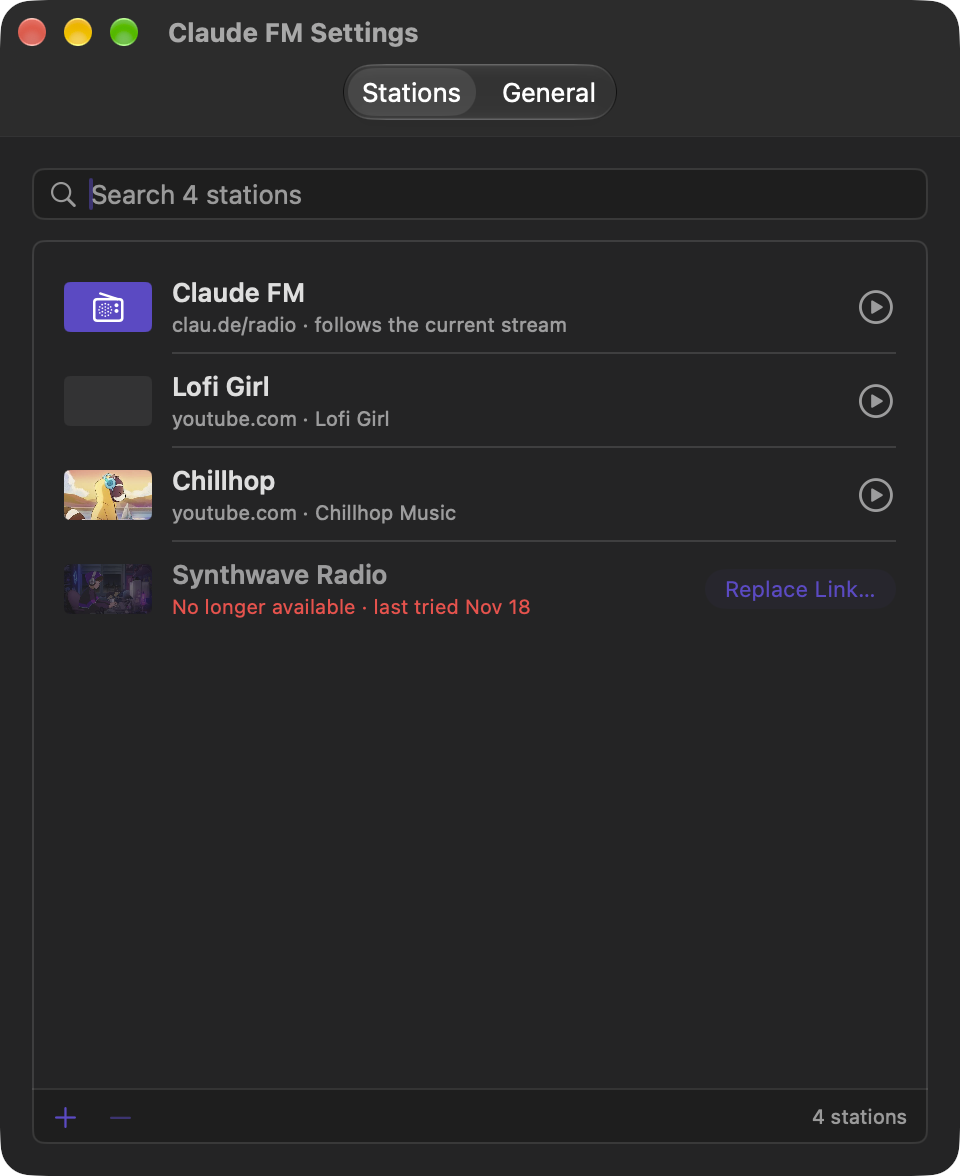
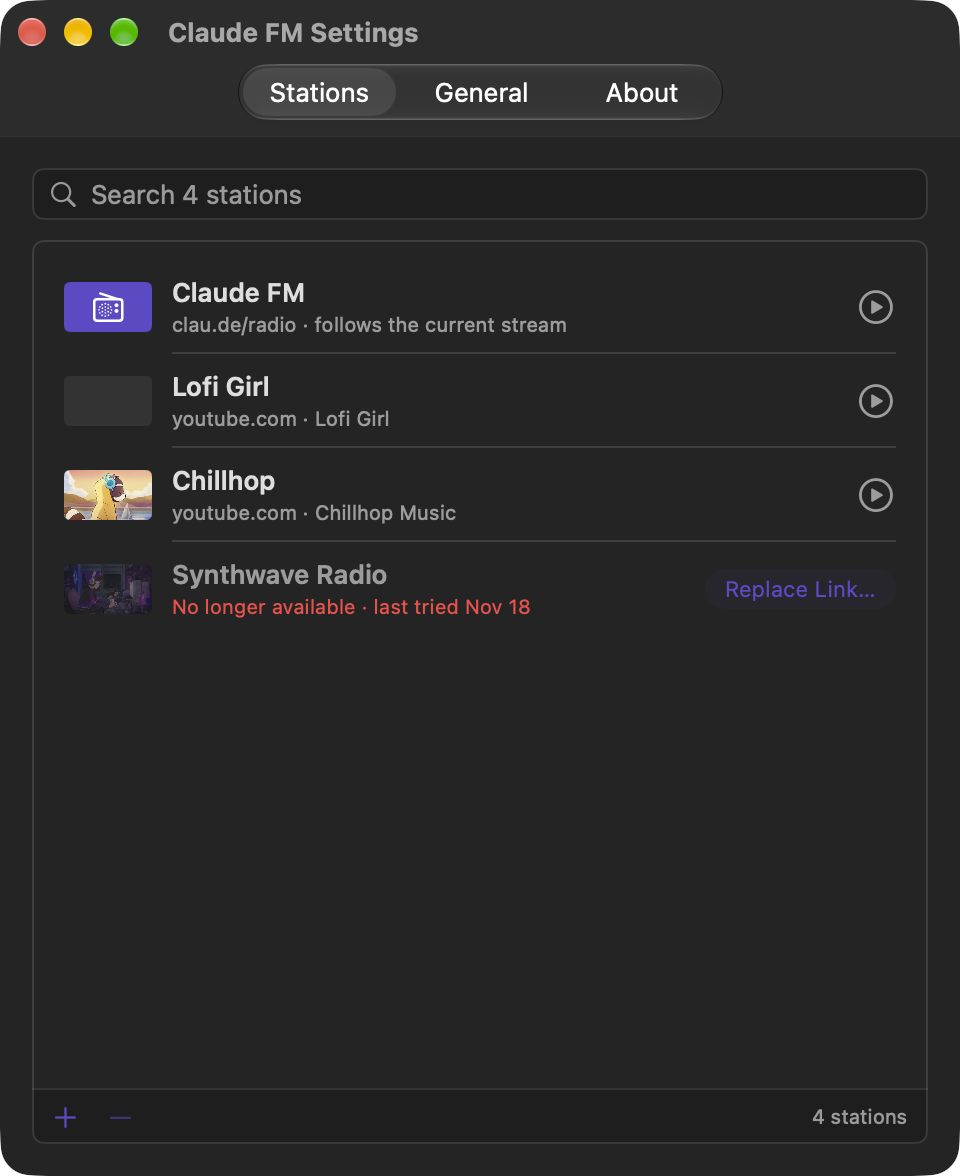
Add an About tab and give the settings tabs room
About shows the icon, the version, what the app is, a link to the
source, and the note that it is a personal project.

The tabs picker sizes each tab to its label and ignores padding on it,
so the labels carry spaces that give the text room on both sides.

Claude-Session: https://claude.ai/code/session_01Ev9xkhDvf3t77rjS2vGz66

Changed region(s): [[0.25, 0.0306, 0.7188, 0.1224]]

diff --git a/Sources/ClaudeFM/SettingsWindow.swift b/Sources/ClaudeFM/SettingsWindow.swift
@@ -9,6 +9,7 @@ final class SettingsNavigation {
     enum Tab: Hashable {
         case stations
         case general
+        case about
     }
 
     /// A request to show the Add Station sheet.
@@ -89,6 +90,7 @@ struct SettingsView: View {
             switch navigation.tab {
             case .stations: StationsTab(model: model, navigation: navigation)
             case .general: GeneralTab(model: model)
+            case .about: AboutTab()
             }
         }
         .frame(width: 480)
@@ -98,11 +100,13 @@ struct SettingsView: View {
         .toolbar {
             ToolbarItem(placement: .principal) {
                 Picker("Section", selection: $navigation.tab) {
-                    Text("Stations").tag(SettingsNavigation.Tab.stations)
-                    Text("General").tag(SettingsNavigation.Tab.general)
+                    tabLabel("Stations").tag(SettingsNavigation.Tab.stations)
+                    tabLabel("General").tag(SettingsNavigation.Tab.general)
+                    tabLabel("About").tag(SettingsNavigation.Tab.about)
                 }
                 .labelsHidden()
                 .tabsPickerStyle()
+                .controlSize(.large)
                 .fixedSize()
             }
         }
@@ -112,6 +116,13 @@ struct SettingsView: View {
                 .tint(.claudeViolet)
         }
     }
+}
+
+/// A tab's label with room around its text. The picker sizes each tab to its label and
+/// ignores padding on it, so the room is made of spaces that don't collapse.
+private func tabLabel(_ title: String) -> Text {
+    let space = "\u{2002}"
+    return Text(space + title + space)
 }
 
 private extension View {
@@ -206,5 +217,48 @@ struct GeneralTab: View {
             loginError = error.localizedDescription
         }
         launchAtLogin = SMAppService.mainApp.status == .enabled
+    }
+}
+
+/// What the app is, which version this is, and where it comes from.
+struct AboutTab: View {
+    private static let repository = URL(string: "https://github.com/lubelski/claude-fm-menubar")!
+
+    var body: some View {
+        VStack(spacing: 14) {
+            Image(nsImage: NSApp.applicationIconImage)
+                .resizable()
+                .frame(width: 96, height: 96)
+                .accessibilityHidden(true)
+            VStack(spacing: 4) {
+                Text("Claude FM").font(.title2.weight(.semibold))
+                Text(versionLine).font(.callout).foregroundStyle(.secondary)
+            }
+            Text("A menu bar radio for Claude FM, Anthropic's lo-fi stream on YouTube, and for any other YouTube stream you add.")
+                .multilineTextAlignment(.center)
+                .fixedSize(horizontal: false, vertical: true)
+                .frame(maxWidth: 340)
+            HStack(spacing: 18) {
+                Link("Source on GitHub", destination: Self.repository)
+                Link("clau.de/radio", destination: StreamPlayer.radioLink)
+            }
+            Spacer(minLength: 0)
+            Text("A personal project, not affiliated with Anthropic. The music belongs to the streams and their artists. MIT license.")
+                .font(.caption)
+                .foregroundStyle(.secondary)
+                .multilineTextAlignment(.center)
+                .fixedSize(horizontal: false, vertical: true)
+                .frame(maxWidth: 360)
+        }
+        .padding(.top, 36)
+        .padding(.bottom, 24)
+        .padding(.horizontal, 24)
+        .frame(maxWidth: .infinity, maxHeight: .infinity)
+    }
+
+    private var versionLine: String {
+        let info = Bundle.main.infoDictionary
+        let version = info?["CFBundleShortVersionString"] as? String ?? "development"
+        return "Version \(version)" + ((info?["CFBundleVersion"] as? String).map { " (\($0))" } ?? "")
     }
 }

diff --git a/Sources/ClaudeFM/AppDelegate.swift b/Sources/ClaudeFM/AppDelegate.swift
@@ -58,7 +58,8 @@ final class AppDelegate: NSObject, NSApplicationDelegate, NSMenuDelegate {
         _ = updater
 
         // For testing from a terminal: CLAUDE_FM_AUTOPLAY=1 starts playback at launch, and
-        // CLAUDE_FM_OPEN opens the settings window on "stations", "general" or "add-station".
+        // CLAUDE_FM_OPEN opens the settings window on "stations", "general", "about" or
+        // "add-station".
         let environment = ProcessInfo.processInfo.environment
         if environment["CLAUDE_FM_AUTOPLAY"] == "1" {
             player.play()
@@ -66,6 +67,7 @@ final class AppDelegate: NSObject, NSApplicationDelegate, NSMenuDelegate {
         switch environment["CLAUDE_FM_OPEN"] {
         case "stations": settings.show(tab: .stations)
         case "general": settings.show(tab: .general)
+        case "about": settings.show(tab: .about)
         case "add-station": settings.showAddStation(link: environment["CLAUDE_FM_LINK"])
         default: break
         }

diff --git a/Sources/ClaudeFM/ThumbnailCache.swift b/Sources/ClaudeFM/ThumbnailCache.swift
@@ -73,6 +73,7 @@ struct StationThumbnail: View {
 }
 
 extension Color {
-    /// The violet of the app icon.
+    /// The app's accent. It is the violet the designs use, which sits inside the app
+    /// icon's gradient. It is not a system color.
     static let claudeViolet = Color(red: 0x5B / 255, green: 0x48 / 255, blue: 0xC9 / 255)
 }

diff --git a/README.md b/README.md
@@ -15,7 +15,7 @@ The top of the menu is the player. The big button plays and stops. While the str
 
 **Stations** opens a submenu to switch station. With up to 10 stations it lists them all, in the order set in Settings. With more, it lists the 10 you played last, so the menu stays the same height however long the list gets. **All Stations…** opens the full list.
 
-**Settings…** opens the app's window. Its General tab has Stop When Other Audio Plays, what a click on the icon does, Launch at Login, and updates.
+**Settings…** opens the app's window. Its General tab has Stop When Other Audio Plays, what a click on the icon does, Launch at Login, and updates. Its About tab has the version and a link to the source.
 
 The menu bar icon is the radio from the app icon, and its antenna shows what the player is doing. Stopped, the radio is faded with its antenna pushed down. While connecting or buffering, the antenna swings up and down like it's hunting for a station. If the stream fails, the antenna sags and shakes every couple of seconds, and the menu says why.
 
@@ -75,7 +75,7 @@ The app checks Core Audio's per-process list once a second. Its own audio comes 
 swift test                     # the station list, its file, and link parsing
 ```
 
-Requires macOS 15 and Xcode. The Command Line Tools alone don't include `actool`, which compiles the icon. For testing from a terminal, `CLAUDE_FM_AUTOPLAY=1` starts playback at launch, and state changes go to stderr. `CLAUDE_FM_OPEN` opens the settings window at launch on `stations`, `general`, or `add-station`. With `add-station`, `CLAUDE_FM_LINK` is the link to start with.
+Requires macOS 15 and Xcode. The Command Line Tools alone don't include `actool`, which compiles the icon. For testing from a terminal, `CLAUDE_FM_AUTOPLAY=1` starts playback at launch, and state changes go to stderr. `CLAUDE_FM_OPEN` opens the settings window at launch on `stations`, `general`, `about`, or `add-station`. With `add-station`, `CLAUDE_FM_LINK` is the link to start with.
 
 The app icon is `Resources/AppIcon.icon`, an Icon Composer file that `bundle.sh` compiles. Its artwork comes from `RadioDrawing.swift`, the same routine that draws the menu bar icon. After changing the drawing, redraw the artwork:
 
